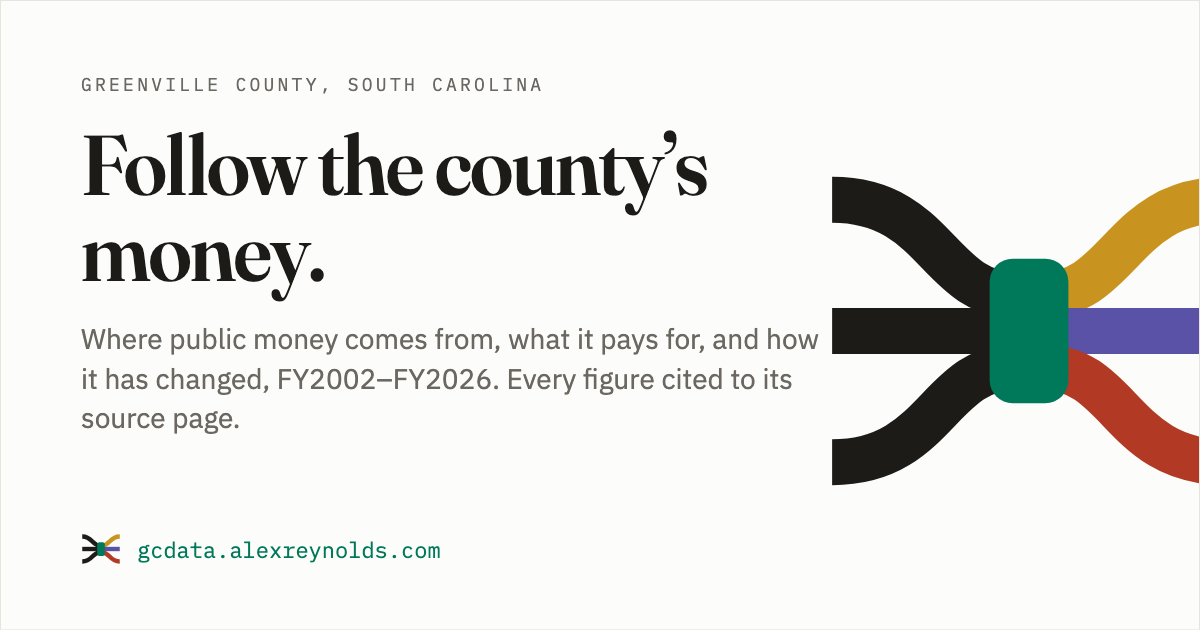
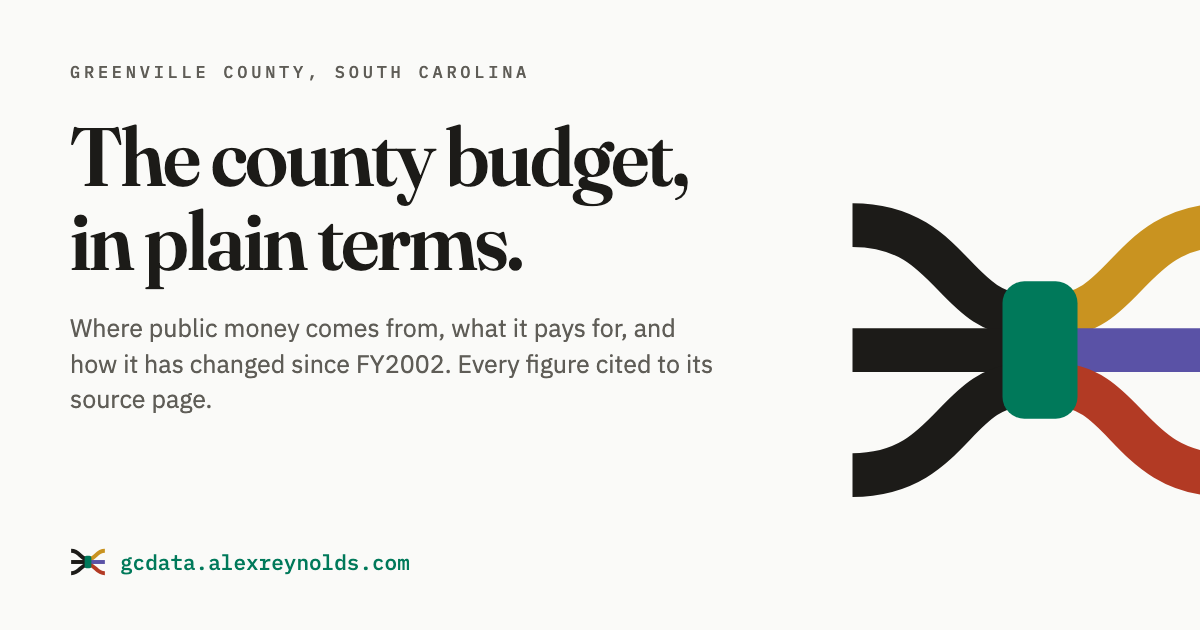
Replace the share card's old headline and make the card reproducible
The share card still said "Follow the county's money" and FY2002-FY2026 after the
homepage changed, and its alt text said "follow Greenville County's money". The card
was a PNG with no source. scripts/og-card.mjs now renders it from CARD, with no end
year so it does not go stale, and the tone test checks CARD's words.

The tone pattern only allowed "the" or "county's" between "follow" and "money", so
it missed the alt text. It now allows up to three words.

diff --git a/web/src/app/layout.tsx b/web/src/app/layout.tsx
@@ -64,7 +64,7 @@ export const metadata: Metadata = {
     type: "website",
     siteName: "Greenville County Budget Explorer",
     locale: "en_US",
-    images: [{ url: "/og.png", width: 1200, height: 630, alt: "Budget Explorer: follow Greenville County's money" }],
+    images: [{ url: "/og.png", width: 1200, height: 630, alt: "Greenville County Budget Explorer: the county budget, in plain terms" }],
   },
   twitter: {
     card: "summary_large_image",
